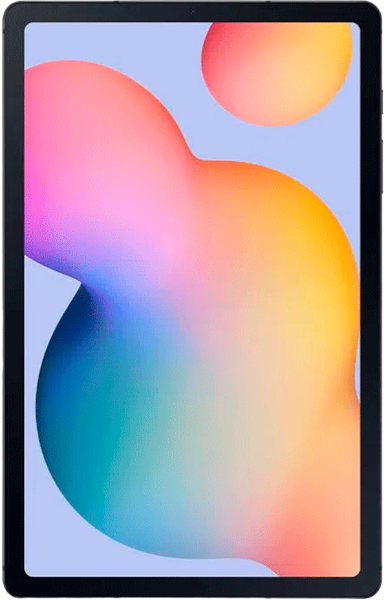
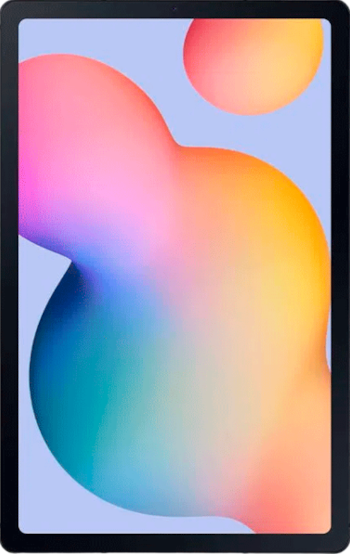
att

diff --git a/teste004/index.html b/teste004/index.html
@@ -12,7 +12,7 @@
     <main>
         <section id="telefone">
                 <picture>
-                    <source media="(max-width: 600px)" srcset="imagens/frame-notebook-300px.png" type="image/png">
+                    <source media="(max-width: 600px)" srcset="imagens/frame-tablet.png" type="image/png">
                     <img src="imagens/frame-notebook-600px.png" alt="">
                 </picture>
             <section id="iframe-tela">

diff --git a/teste004/teste-de-tela.html b/teste004/teste-de-tela.html
@@ -7,12 +7,11 @@
     <title>teste de tela</title>
     <style>
         body {
-            width: 98vw;
-            height: 98vh;
+            width: 100vw;
+            height: 100vh;
             background-color: gray;
         }
         img {
-            display: block;
             margin: auto;
         }
     
